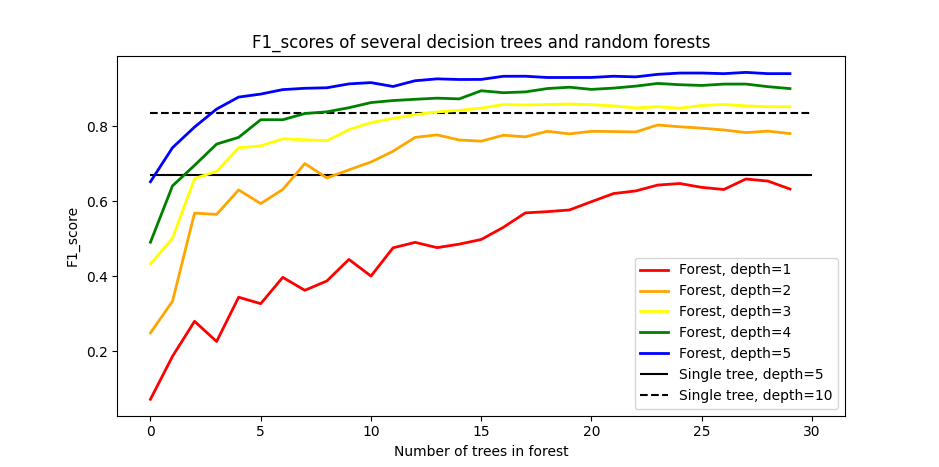
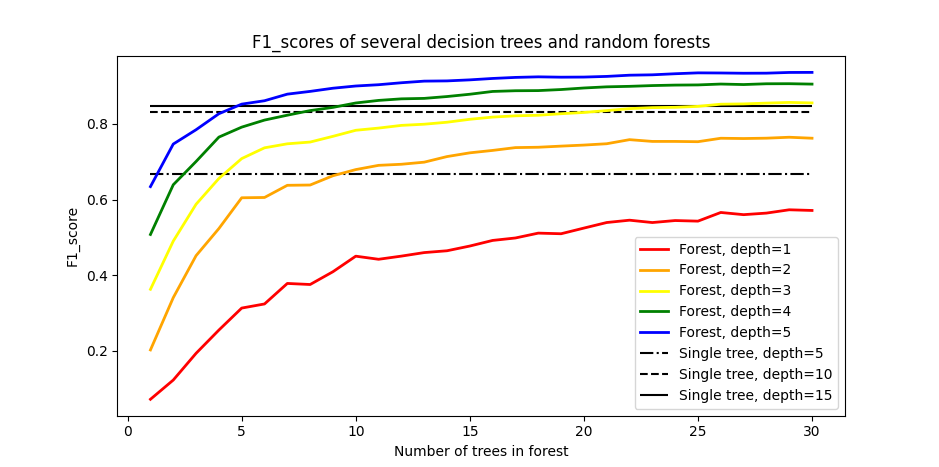
final tweaks ex5

diff --git a/code/ensemble_learning/ex5.py b/code/ensemble_learning/ex5.py
@@ -2,7 +2,7 @@ from sklearn.ensemble import RandomForestClassifier
 from sklearn.tree import DecisionTreeClassifier
 from sklearn.datasets import load_digits
 from sklearn.model_selection import train_test_split
-from sklearn.metrics import confusion_matrix, f1_score, accuracy_score
+from sklearn.metrics import confusion_matrix, f1_score
 import matplotlib.pyplot as plt
 from tqdm import tqdm
 import numpy as np
@@ -18,6 +18,7 @@ X_train, X_test, y_train, y_test = train_test_split(X, y, test_size=0.33, random
 N_RUNS = 10
 max_trees = 30
 depth_steps = 5
+baseline_depths = 3
 f_scores = np.zeros((depth_steps, N_RUNS, max_trees))
 
 # random forests
@@ -26,7 +27,11 @@ for depth in range(5):
     for i in tqdm(range(N_RUNS)):
         f_scores_run = []
         for n_trees in range(max_trees):
-            forest = RandomForestClassifier(n_estimators=n_trees+1, max_depth = depth+1, random_state=42)
+            forest = RandomForestClassifier(
+                n_estimators=n_trees+1,
+                max_depth = depth+1,
+                random_state=42+i
+            )
             forest.fit(X_train, y_train)
             y_hat_forest = forest.predict(X_test)
             C_forest = confusion_matrix(y_test, y_hat_forest)
@@ -35,9 +40,9 @@ for depth in range(5):
 
 # Decision Tree baseline
 f_scores_baselines = np.zeros((5, 10))
-for i in range(2):
+for i in range(baseline_depths):
     for run in range(N_RUNS):
-        tree = DecisionTreeClassifier(max_depth=(i+1)*5, random_state=42)
+        tree = DecisionTreeClassifier(max_depth=(i+1)*5, random_state=42+i)
         tree.fit(X_train, y_train)
         y_hat_tree = tree.predict(X_test)
         C_tree = confusion_matrix(y_test, y_hat_tree)
@@ -47,12 +52,12 @@ for i in range(2):
 
 # plotting
 colors = ['red', 'orange', 'yellow', 'green', 'blue']
-styles = ['-', '--']
+styles = ['-.', '--', '-', ':']
 for i in range(5):
     #plt.plot(f_scores[i].T, alpha=0.2, color=colors[i])
-    plt.plot(np.mean(f_scores[i], axis=0), color=colors[i], linewidth=2, label=f'Forest, depth={i+1}')
-for j in range(2):
-    plt.hlines(y=np.mean(f_scores_baselines[j], axis=0), xmin=0, xmax=max_trees, color='black', linestyles=styles[j], label=f'Single tree, depth={(j+1)*5}')
+    plt.plot(range(1,31), np.mean(f_scores[i], axis=0), color=colors[i], linewidth=2, label=f'Forest, depth={i+1}')
+for j in range(baseline_depths):
+    plt.hlines(y=np.mean(f_scores_baselines[j], axis=0), xmin=1, xmax=max_trees, color='black', linestyles=styles[j], label=f'Single tree, depth={(j+1)*5}')
 plt.legend()
 plt.xlabel('Number of trees in forest')
 plt.ylabel('F1_score')
